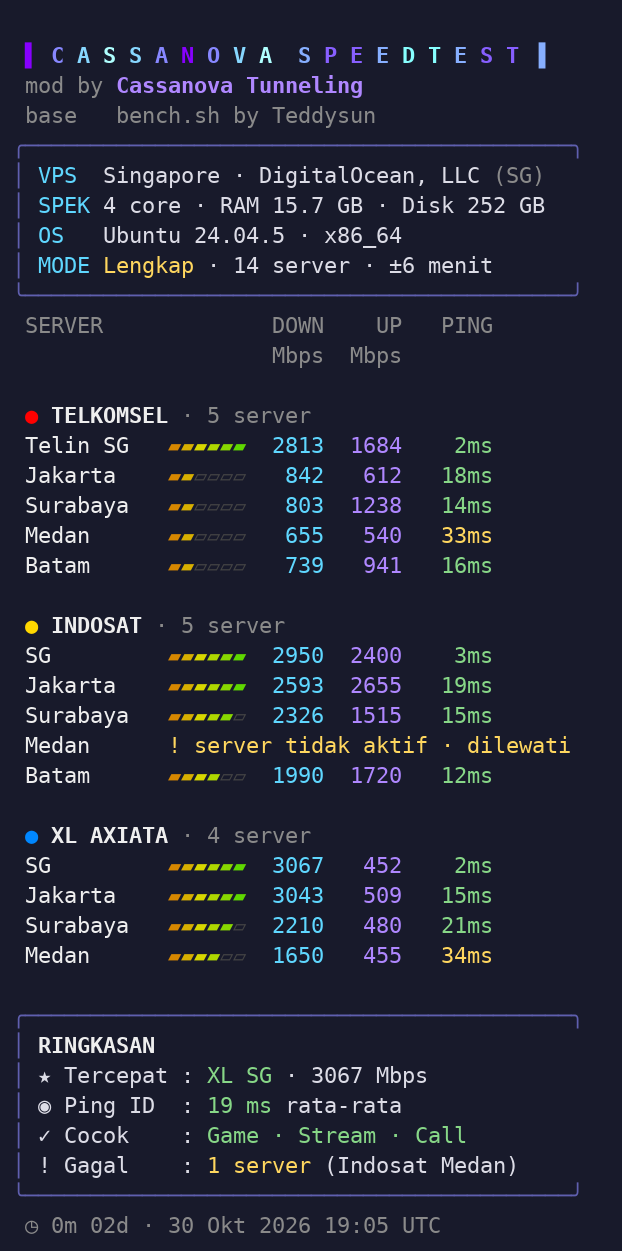
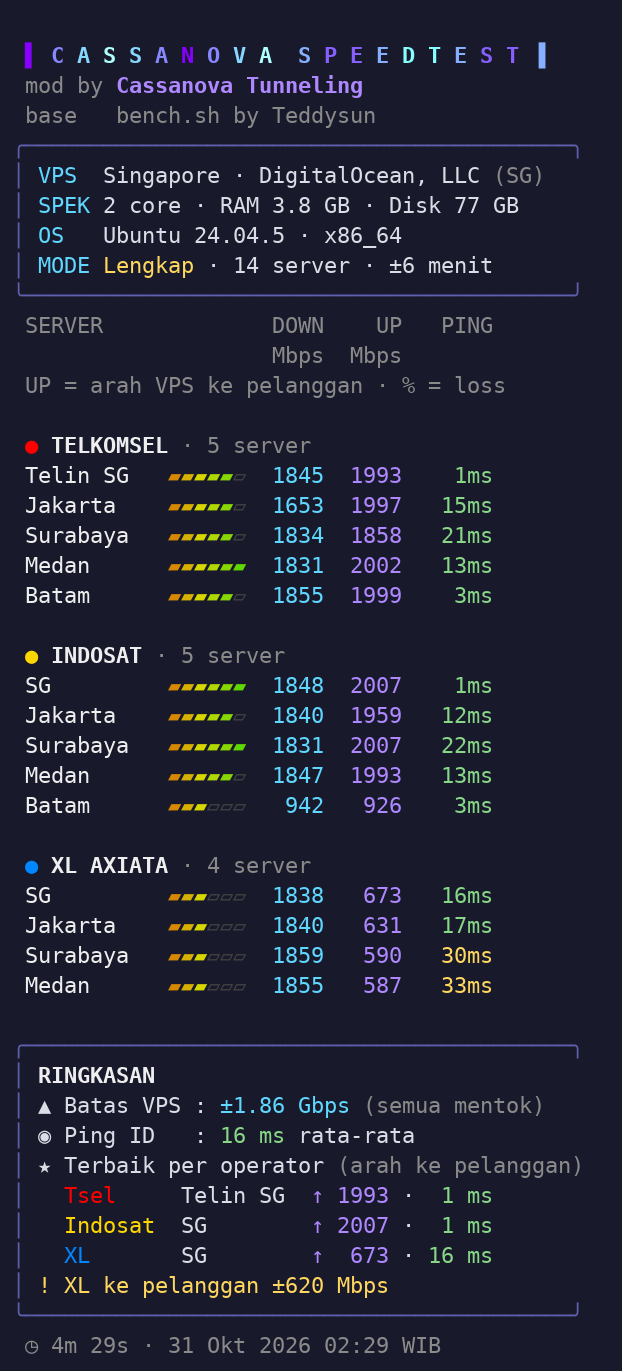
Add files via upload

diff --git a/README.md b/README.md
@@ -4,7 +4,7 @@ Speedtest VPS ke server **operator kartu seluler Indonesia** (Telkomsel, Indosat
 
 <p align="center"><img src="hasil.png" alt="Contoh hasil Bench-Mod (mode Lengkap)" width="460"></p>
 
-<p align="center"><sub>Contoh tampilan mode <b>Lengkap</b>. Angka di gambar hanya contoh, hasil asli tergantung VPS.</sub></p>
+<p align="center"><sub>Hasil mode <b>Lengkap</b> di VPS DigitalOcean Singapura (2 core).</sub></p>
 
 ## Cara pakai
 
@@ -33,9 +33,8 @@ Ganti `lengkap` dengan salah satu mode di bawah.
 | `cepat` | Server terdekat + 1 server tiap operator (Jakarta, atau SG bila VPS di Singapura) | ±2 menit |
 | `id` | Semua kota operator di Indonesia | ±5 menit |
 | `sg` | Server Singapura tiap operator | ±2 menit |
-| `lengkap` | Semua server (server di negara VPS dites lebih dulu) | ±6 menit |
+| `lengkap` | VPS di Indonesia: semua kota Indonesia. VPS di luar Indonesia: semua server, negara VPS dites lebih dulu | ±5-6 menit |
 | `<id server>` | Satu server Speedtest pilihan, contoh `bash -s 71028` | ±30 detik |
-| `disk` | Uji tulis disk 512 MB (ada konfirmasi dulu) | ±10 detik |
 
 ## Daftar server
 
@@ -51,11 +50,25 @@ Daftar server ada di [`speedtest-servers.txt`](speedtest-servers.txt) dan diambi
 
 Format tiap baris: `OPERATOR|Kota|ID atau SG|ID server Ookla`
 
-## Yang ditampilkan
-- Info VPS: kota, ISP, negara, CPU, RAM, disk, OS
-- Download, upload, dan ping tiap server. Bar kecepatan dibandingkan dengan server tercepat. Warna ping: hijau di bawah 30 ms, kuning di bawah 80 ms, merah di atasnya
-- Ringkasan: server tercepat, rata-rata ping ke Indonesia, kecocokan (Game, Stream, Call), dan server yang gagal
-- Riwayat 10 tes terakhir di `~/.bench-mod/history`
+## Cara membaca hasil
+
+| Kolom | Arti |
+|---|---|
+| **DOWN** | Data dari server operator **ke VPS** (arah pelanggan mengirim/upload) |
+| **UP** | Data dari VPS **ke jaringan operator**. Arah ini yang dipakai pelanggan saat streaming, download, dan buka web, jadi **paling penting untuk VPS tunneling** |
+| **PING** | Hijau di bawah 30 ms, kuning di bawah 80 ms, merah di atasnya |
+| `2%` | Packet loss, hanya tampil bila ada |
+
+Bar memakai skala tetap dari kolom **UP**: 100 / 250 / 500 / 1000 / 1500 / 2000 Mbps.
+
+**Ringkasan**
+- **Batas VPS**: muncul bila download hampir semua server mentok di angka yang sama. Artinya angka itu batas port VPS, bukan kecepatan operator.
+- **Ping ID**: rata-rata ping ke server di Indonesia.
+- **Terbaik per operator**: server dengan UP terbesar (selisih di bawah 10% dianggap sama), lalu ping terendah. Pelanggan memakai kartu yang berbeda-beda, jadi tiap operator punya pilihan terbaiknya sendiri.
+- **Operator lemah**: ditandai bila rata-rata UP-nya jauh di bawah operator lain.
+- **Server gagal**: server yang tidak menjawab saat tes.
+
+Angka ini kecepatan **VPS ke jaringan operator**. Kecepatan di HP pelanggan tetap tergantung sinyal dan jaringan seluler mereka.
 
 ## Catatan
 - Memakai **Speedtest CLI resmi Ookla 1.2.0**. File diunduh sekali ke `~/.bench-mod/` dan dicek SHA-256 sebelum dipakai.
